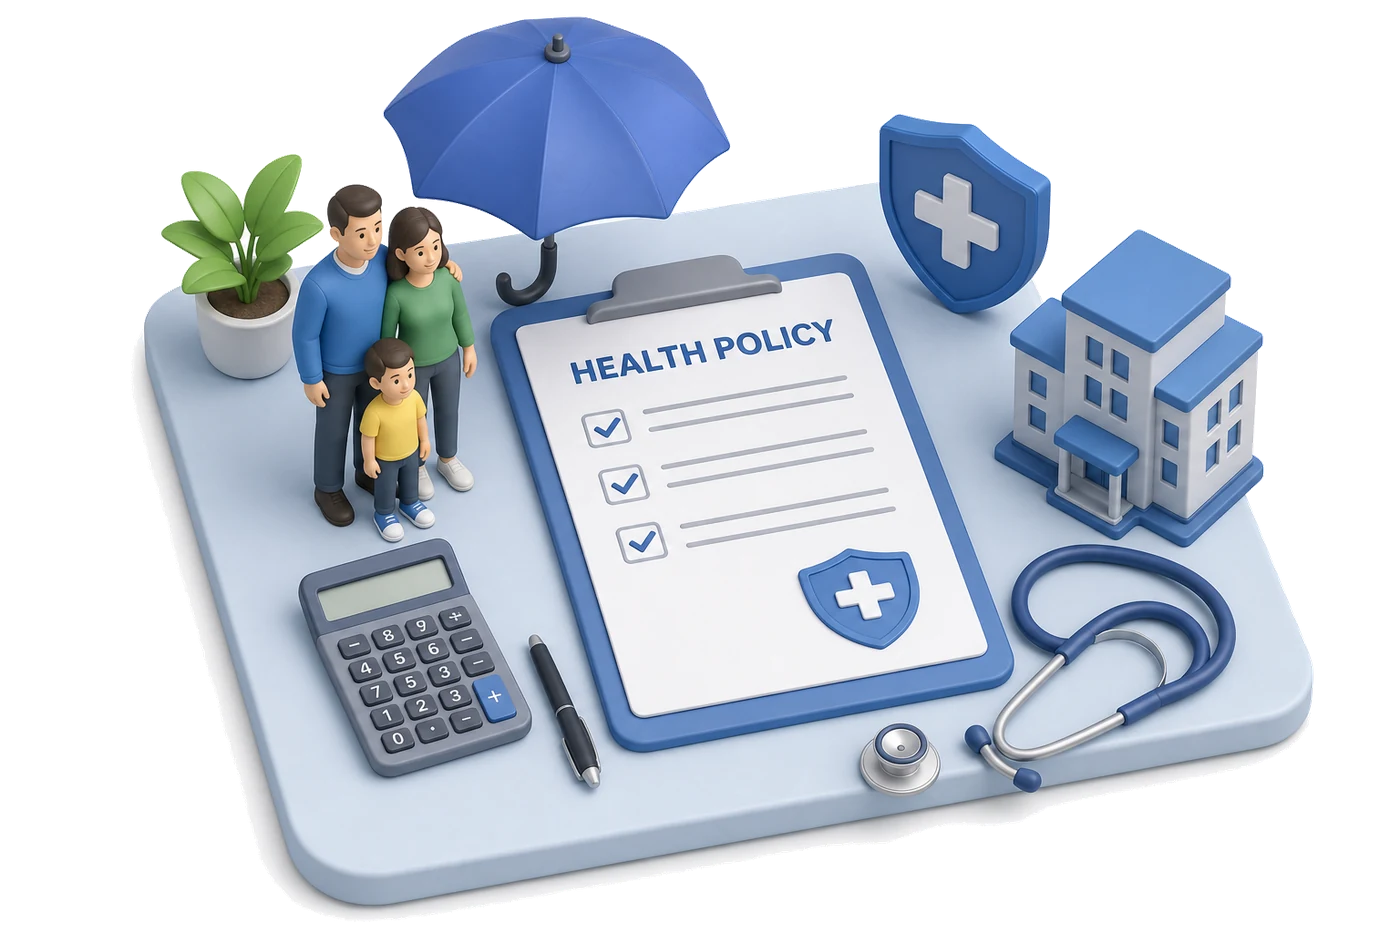
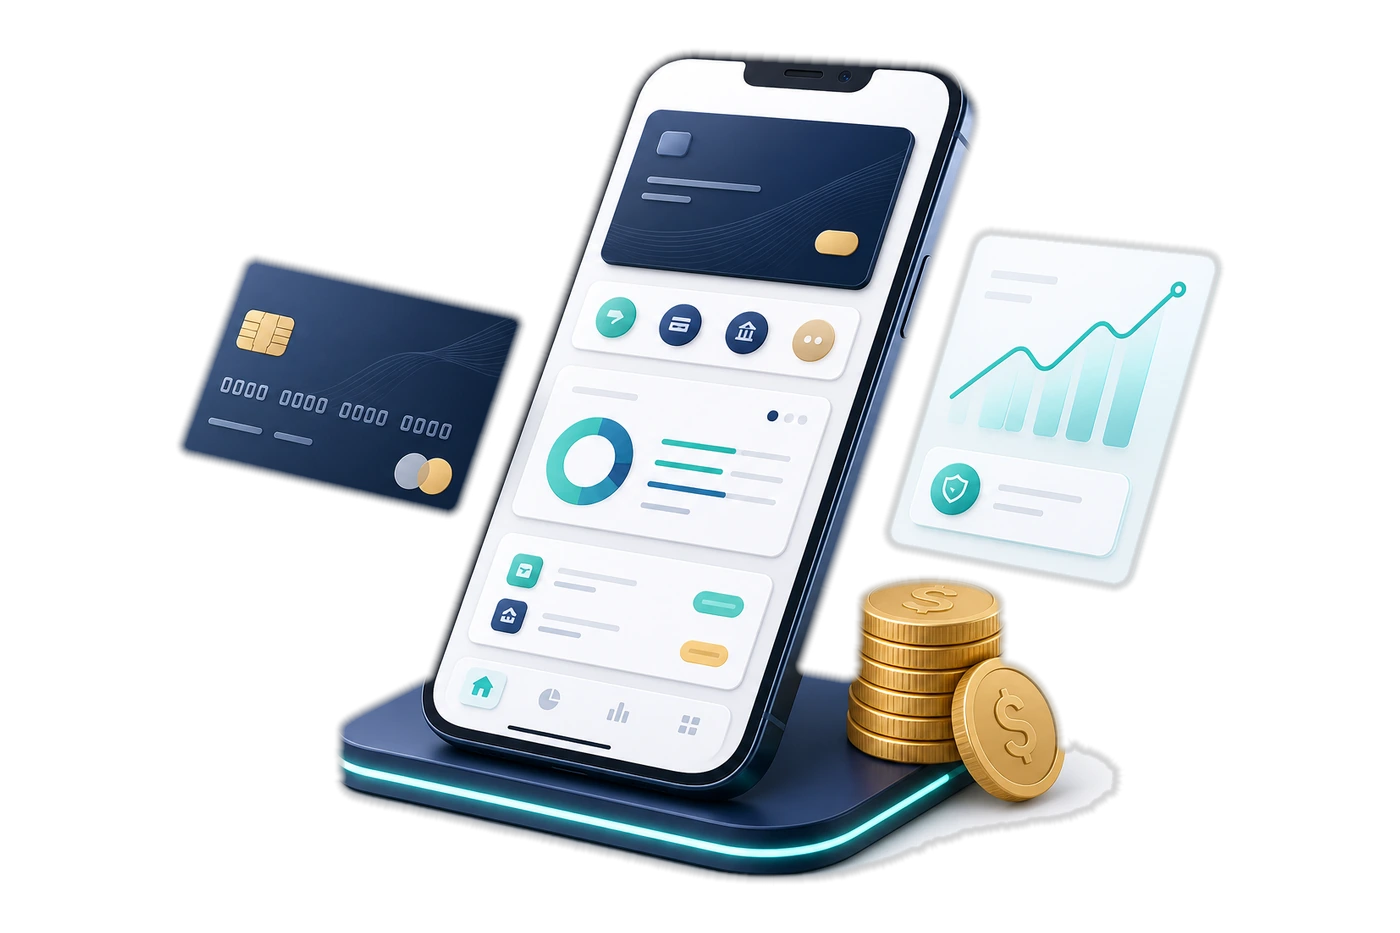
feat: animated cybersecurity and fintech hero assets
Replace cybersecurity and fintech technology heroes with
subject-accurate scenes and matching motion accents.

diff --git a/src/app/globals.css b/src/app/globals.css
@@ -7458,6 +7458,141 @@ body:has(.pw-docs-app) .pw-ope {
   animation-duration: 5.2s;
 }
 
+/* Technology verticals */
+.pw-fx-shield-pulse {
+  position: absolute;
+  left: 46%;
+  top: 40%;
+  width: 28px;
+  height: 32px;
+  border-radius: 40% 40% 45% 45%;
+  background: rgba(40, 120, 200, 0.35);
+  box-shadow: 0 0 18px rgba(40, 160, 220, 0.45);
+  animation: pw-shield-pulse 2.4s ease-in-out infinite;
+}
+
+@keyframes pw-shield-pulse {
+  0%,
+  100% {
+    opacity: 0.3;
+    transform: scale(0.9);
+  }
+  50% {
+    opacity: 0.95;
+    transform: scale(1.15);
+  }
+}
+
+.pw-fx-net-node {
+  position: absolute;
+  width: 8px;
+  height: 8px;
+  border-radius: 50%;
+  background: rgba(80, 200, 220, 0.75);
+  box-shadow: 0 0 10px rgba(80, 200, 220, 0.55);
+  animation: pw-net-node 2s ease-in-out infinite;
+}
+
+.pw-fx-net-node-a {
+  left: 34%;
+  top: 34%;
+}
+.pw-fx-net-node-b {
+  left: 62%;
+  top: 30%;
+  animation-delay: 0.45s;
+}
+.pw-fx-net-node-c {
+  left: 58%;
+  top: 56%;
+  animation-delay: 0.9s;
+}
+
+@keyframes pw-net-node {
+  0%,
+  100% {
+    opacity: 0.25;
+    transform: scale(0.8);
+  }
+  50% {
+    opacity: 1;
+    transform: scale(1.25);
+  }
+}
+
+.pw-fx-card-slide {
+  position: absolute;
+  left: 52%;
+  top: 48%;
+  width: 22px;
+  height: 14px;
+  border-radius: 3px;
+  background: linear-gradient(135deg, #1a3a5c 0%, #2f6f9f 100%);
+  box-shadow: 0 2px 8px rgba(20, 40, 70, 0.25);
+  animation: pw-card-slide 2.6s ease-in-out infinite;
+}
+
+@keyframes pw-card-slide {
+  0%,
+  100% {
+    transform: translateX(-8px) rotate(-6deg);
+    opacity: 0.45;
+  }
+  50% {
+    transform: translateX(8px) rotate(4deg);
+    opacity: 0.95;
+  }
+}
+
+.pw-fx-chart-rise {
+  position: absolute;
+  left: 36%;
+  top: 42%;
+  width: 18px;
+  height: 16px;
+  background: linear-gradient(180deg, rgba(60, 180, 140, 0.7) 0%, rgba(60, 180, 140, 0.1) 100%);
+  clip-path: polygon(0 80%, 30% 55%, 55% 65%, 100% 20%, 100% 100%, 0 100%);
+  animation: pw-chart-rise 2.4s ease-in-out infinite;
+}
+
+@keyframes pw-chart-rise {
+  0%,
+  100% {
+    transform: translateY(4px) scaleY(0.85);
+    opacity: 0.35;
+  }
+  50% {
+    transform: translateY(-4px) scaleY(1.1);
+    opacity: 0.95;
+  }
+}
+
+.pw-fx-coin-spin {
+  position: absolute;
+  left: 64%;
+  top: 62%;
+  width: 12px;
+  height: 12px;
+  border-radius: 50%;
+  background: radial-gradient(circle at 35% 30%, #ffe7a0 0%, #d4a017 70%);
+  animation: pw-coin-spin 2.2s ease-in-out infinite;
+}
+
+@keyframes pw-coin-spin {
+  0%,
+  100% {
+    transform: rotateY(0deg) translateY(0);
+  }
+  50% {
+    transform: rotateY(180deg) translateY(-8px);
+  }
+}
+
+.pw-photo-stage-cybersecurity .pw-photo-stage-bob,
+.pw-photo-stage-fintech .pw-photo-stage-bob {
+  animation-duration: 5.2s;
+}
+
 @media (prefers-reduced-motion: reduce) {
   .pw-photo-stage-bob,
   .pw-photo-stage-fx * {

diff --git a/src/components/IndustryPhotoStage.tsx b/src/components/IndustryPhotoStage.tsx
@@ -33,7 +33,9 @@ type MotionKind =
   | "auto-repair"
   | "body-shop"
   | "mechanic"
-  | "used-car-dealer";
+  | "used-car-dealer"
+  | "cybersecurity"
+  | "fintech";
 
 const MOTION_BY_SLUG: Record<string, MotionKind> = {
   ecommerce: "computer",
@@ -67,6 +69,8 @@ const MOTION_BY_SLUG: Record<string, MotionKind> = {
   "body-shop": "body-shop",
   mechanic: "mechanic",
   "used-car-dealer": "used-car-dealer",
+  "cybersecurity-company": "cybersecurity",
+  fintech: "fintech",
 };
 
 type IndustryPhotoStageProps = {
@@ -346,6 +350,21 @@ export function IndustryPhotoStage({
                 <span className="pw-fx-string-light pw-fx-string-light-a" />
                 <span className="pw-fx-string-light pw-fx-string-light-b" />
                 <span className="pw-fx-string-light pw-fx-string-light-c" />
+              </>
+            )}
+            {motion === "cybersecurity" && (
+              <>
+                <span className="pw-fx-shield-pulse" />
+                <span className="pw-fx-net-node pw-fx-net-node-a" />
+                <span className="pw-fx-net-node pw-fx-net-node-b" />
+                <span className="pw-fx-net-node pw-fx-net-node-c" />
+              </>
+            )}
+            {motion === "fintech" && (
+              <>
+                <span className="pw-fx-card-slide" />
+                <span className="pw-fx-chart-rise" />
+                <span className="pw-fx-coin-spin" />
               </>
             )}
             {motion === "float" && (
